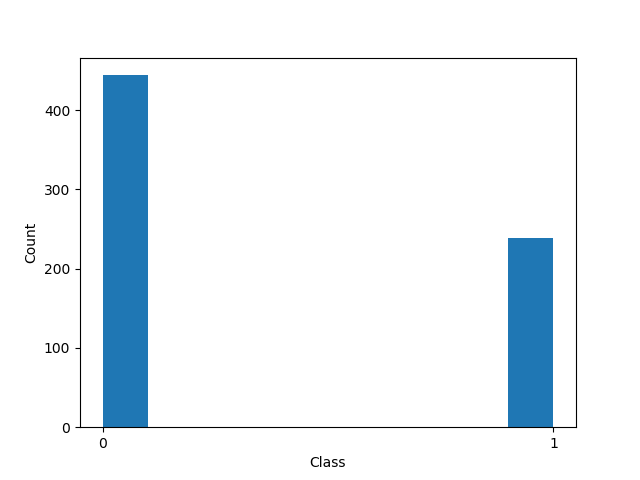
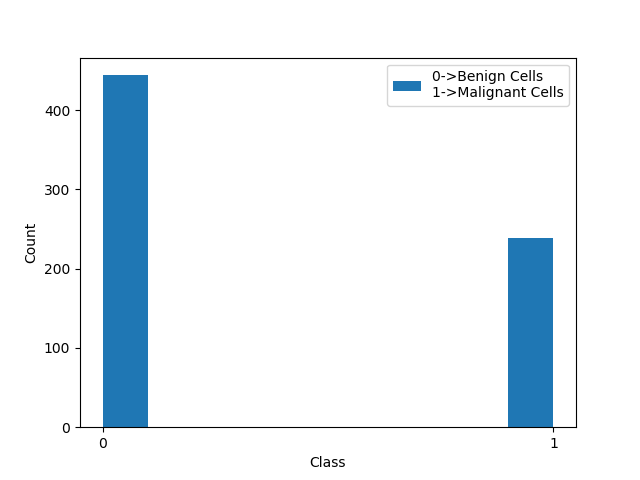
legend added to class graph

Changed region(s): [[0.5938, 0.125, 0.9062, 0.2188]]

diff --git a/hist.py b/hist.py
@@ -81,8 +81,9 @@ plt.show()
 
 Y = X[['Class']].values
 
-plt.hist(Y)
+plt.hist(Y, label='0->Benign Cells\n1->Malignant Cells')
 plt.xticks(range(0, 2))
 plt.xlabel('Class')
 plt.ylabel('Count')
+plt.legend()
 plt.show()
